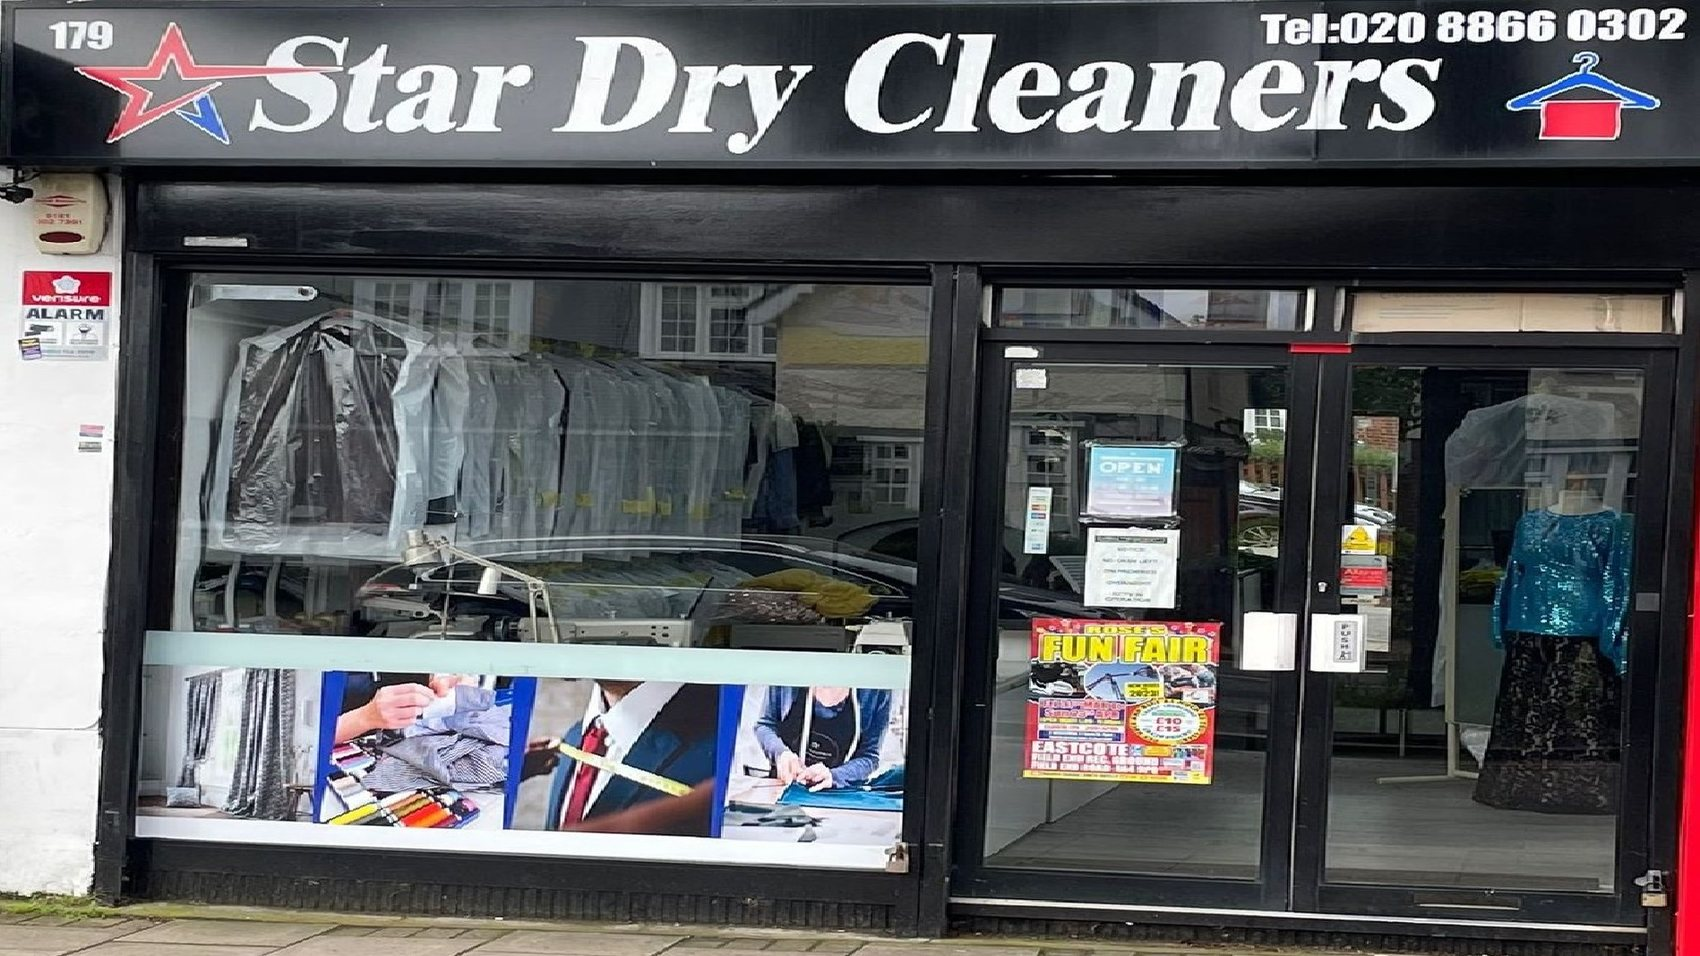
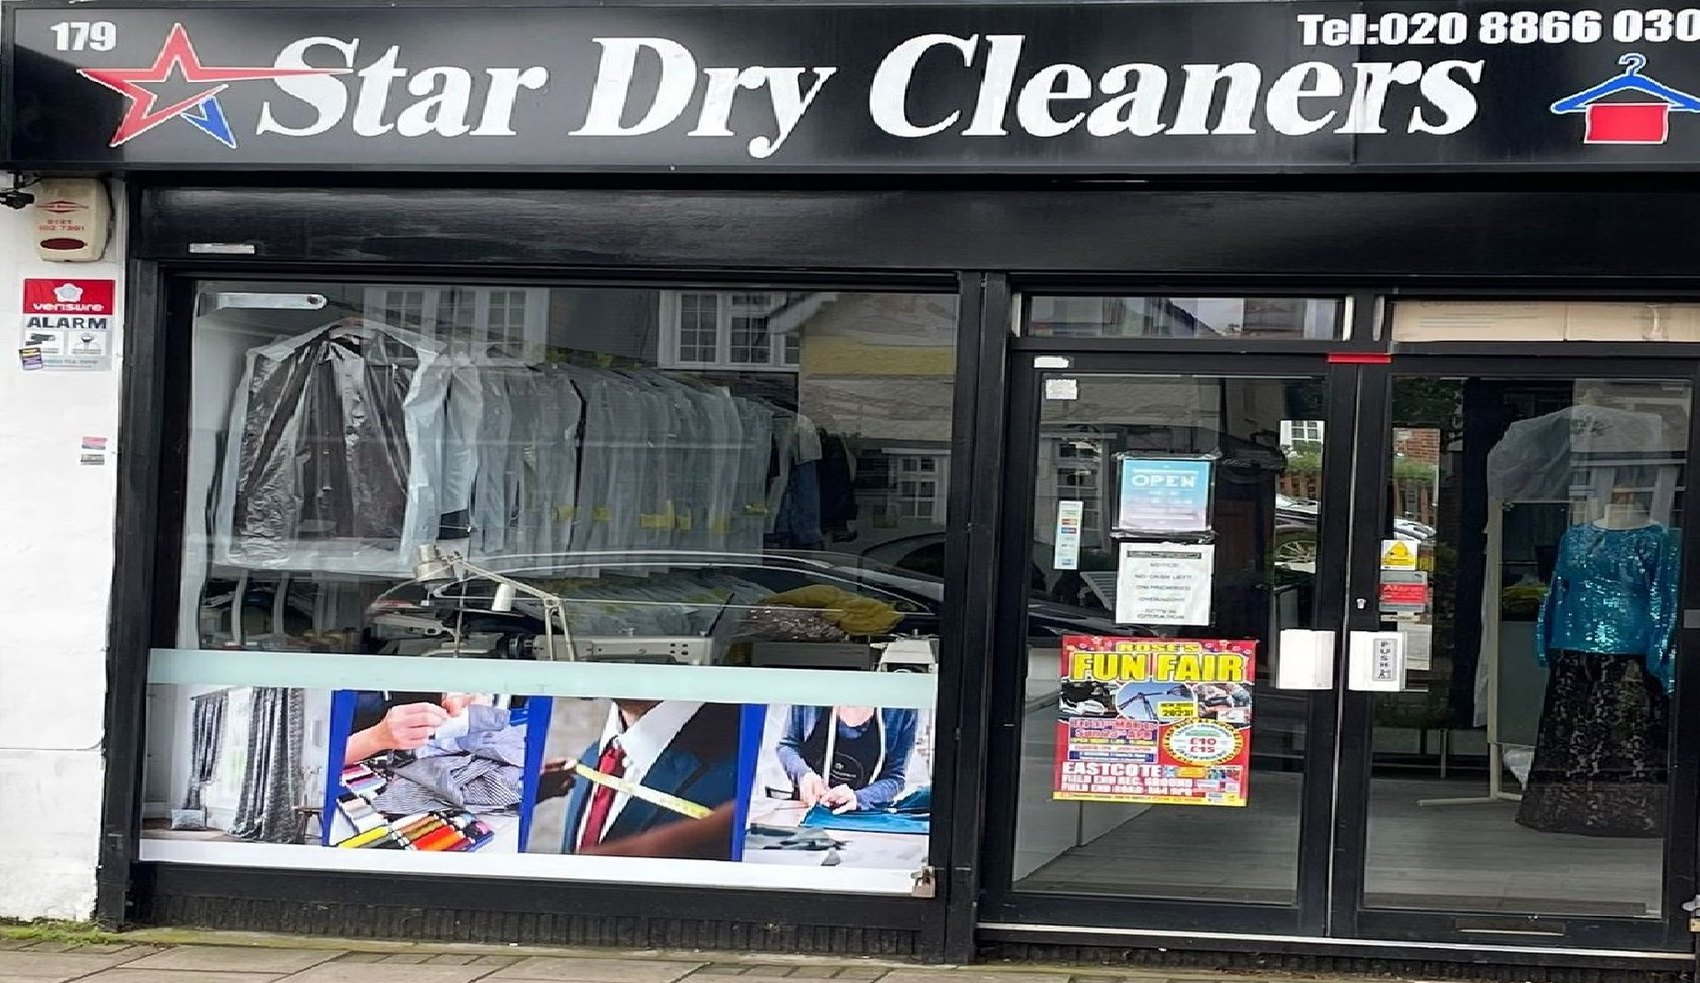
Rebuild the home hero: contained, never upscaled, headline above the fold
Alex rejected the landing screen. Measured, he was right twice over:

- The full-bleed hero rendered at viewport width from a 1700px source, so it
  was upscaled past native from ~1700px up: 1.18x at 2000px (2.36x at DPR2)
  and 1.51x at 2560 (3.02x at DPR2). Not distorted - box and source were both
  1.778 - but upscaled, which is what read as stretched.
- The H1 sat 933-1563px down the page. On a 1200px-tall viewport the headline,
  lede and both call buttons were all below the fold.

Hero is now inside the 1180px wrapper as a two-column layout, photo in a
framed figure with the address as caption. Image renders 549x318 = 0.32x
native (0.64x at DPR2) at every viewport from 1440 to 2560, and the H1 is at
189px with CTAs done by 598px.

Source re-cut to trim the neighbouring shop off the right edge (1700x983) and
the box uses the source's own ratio, so 0% of the frame is discarded.

Round 3's notes had recorded this risk as 'open, not actioned'. That was wrong.

diff --git a/assets/css/site.css b/assets/css/site.css
@@ -86,21 +86,50 @@ em{font-style:italic}
 .nav-toggle{display:none;white-space:nowrap;background:transparent;color:var(--indigo);
   border:2px solid var(--indigo);border-radius:8px;min-height:44px;padding:.5rem 1rem;font-weight:700}
 
-/* ---------- hero ---------- */
-.hero{position:relative;padding-bottom:clamp(2rem,1rem + 4vw,4rem);background:var(--paper-2)}
-/* shopfront.jpg is 1700x956 and the fascia — with "Tel:020 8866 0302" on it — sits in the
-   top band of the frame. A 16/8 box anchored at 42% cut the number off entirely. Anchor to
-   the top so the sign always survives, and use a shallower crop. */
-.hero-img img{width:100%;aspect-ratio:16/9;object-fit:cover;object-position:50% 12%}
-.hero-card{
-  background:#fff;border:1px solid var(--line);border-radius:var(--r);
-  padding:clamp(1.5rem,1rem + 2vw,2.6rem);max-width:44rem;
-  margin-top:clamp(-3.5rem,-2rem - 3vw,-1.5rem);position:relative;z-index:2;
-  box-shadow:0 24px 60px -34px rgba(36,26,94,.5);
-  border-top:4px solid var(--red);
+/* ---------- hero ----------
+   Rebuilt 2026-07-27. The previous version was a full-bleed photograph with an
+   overlapping card. Two things were wrong with it and Alex was right to reject it:
+
+   1. The source is 1700x956. Full-bleed meant it rendered at the viewport width, so
+      at 2000px it was upscaled to 1.18x native — 2.36x on a Retina screen, 3.02x at
+      2560. That softness is what read as "stretched".
+   2. It pushed the H1 to 1230px down a 1200px-tall viewport. The headline and both
+      call buttons were below the fold at every width tested, so the landing screen
+      was a giant soft photo and nothing else.
+
+   The hero is now inside the 1180px wrapper, so the image column tops out around
+   540px — roughly a third of the source's native width, sharp even at DPR 2 — and
+   the headline and CTAs are the first thing on the page. */
+.hero{
+  background:linear-gradient(180deg,var(--paper-2) 0%,var(--paper-2) 78%,#fff 100%);
+  border-bottom:1px solid var(--line);
+  padding:clamp(2.2rem,1.4rem + 4vw,4.6rem) 0;
 }
+.hero-in{
+  display:grid;gap:clamp(1.8rem,1rem + 3vw,3.6rem);
+  grid-template-columns:minmax(0,1fr) minmax(0,1.02fr);align-items:center;
+}
+.hero-copy{max-width:34rem}
 .lede{font-size:clamp(1.04rem,1rem + .5vw,1.24rem);color:var(--ink-3);max-width:34rem}
-.hero-cta{display:flex;flex-wrap:wrap;gap:.7rem;margin:1.5rem 0 0}
+.hero-cta{display:flex;flex-wrap:wrap;gap:.7rem;margin:1.6rem 0 0}
+
+.hero-fig{
+  margin:0;position:relative;max-width:620px;justify-self:end;width:100%;
+  border-top:4px solid var(--red);border-radius:var(--r);
+  background:#fff;padding:.55rem .55rem .25rem;
+  box-shadow:0 26px 60px -34px rgba(36,26,94,.55);
+}
+.hero-fig img{
+  width:100%;aspect-ratio:1700/983;object-fit:cover;
+  border-radius:calc(var(--r) - 6px);
+}
+.hero-fig figcaption{
+  font-size:.83rem;font-weight:600;color:var(--ink-3);
+  padding:.6rem .3rem .35rem;display:flex;align-items:center;gap:.45rem;
+}
+.hero-fig figcaption::before{
+  content:"";width:8px;height:8px;border-radius:50%;background:var(--red);flex:0 0 auto;
+}
 
 /* ---------- strip ---------- */
 .strip{background:var(--indigo);color:#fff}
@@ -232,7 +261,8 @@ em{font-style:italic}
 
 /* ---------- responsive ---------- */
 @media (max-width:900px){
-  .feature-in,.phero-in,.split{grid-template-columns:1fr}
+  .hero-in,.feature-in,.phero-in,.split{grid-template-columns:1fr}
+  .hero-fig{justify-self:stretch;max-width:none}
   .feature-media{order:2}
   .strip-in{grid-template-columns:1fr;gap:.6rem}
 
@@ -256,8 +286,8 @@ em{font-style:italic}
   .site-head{position:sticky;top:0}
   .head-in{position:relative;flex-wrap:wrap}
   .nav .nav-call{margin:.5rem 0 0}
-  .hero-img img{aspect-ratio:16/9;object-position:50% 50%}
-  .hero-card{margin-top:-1.4rem}
+
+
 }
 @media (max-width:420px){
   .brand img{width:142px}

diff --git a/index.html b/index.html
@@ -27,12 +27,8 @@
 <main id="main">
 
   <section class="hero">
-    <div class="hero-img">
-      <img src="assets/img/shopfront.jpg" width="1700" height="956" fetchpriority="high"
-           alt="The Star Dry Cleaners shopfront at 179 Marsh Road, Pinner, with its red and blue star sign and rails of cleaned garments in the window.">
-    </div>
-    <div class="wrap">
-      <div class="hero-card" data-reveal-hero>
+    <div class="wrap hero-in">
+      <div class="hero-copy" data-reveal-hero>
         <p class="kicker"><span class="rate"><svg class="star" viewBox="0 0 24 24" aria-hidden="true" focusable="false"><path fill="currentColor" d="M12 1.6l3.1 6.6 7 .9-5.1 4.9 1.3 7.1L12 17.7 5.7 21.1 7 14 1.9 9.1l7-.9z"/></svg> 4.6</span> from 94 Google reviews</p>
         <h1>Cleaned and pressed on Marsh&nbsp;Road.</h1>
         <p class="lede">Dry cleaning, shirts, ironing and alterations at 179 Marsh Road. The cleaning
@@ -42,6 +38,11 @@
           <a class="btn btn--ghost btn--lg" href="services.html">What we take</a>
         </p>
       </div>
+      <figure class="hero-fig" data-reveal-hero>
+        <img src="assets/img/shopfront.jpg" width="1700" height="983" fetchpriority="high"
+             alt="The Star Dry Cleaners shopfront at 179 Marsh Road, Pinner: the black fascia with the red and blue star and the shop telephone number, and rails of cleaned garments in the window.">
+        <figcaption>179 Marsh Road, Pinner HA5 5PB</figcaption>
+      </figure>
     </div>
   </section>
 

diff --git a/QA_REPORT.md b/QA_REPORT.md
@@ -232,3 +232,70 @@ build audit trail dressed as customer copy.
   is to be the destination from a Google Business Profile.
 - The alterations line icon reads as an arrow rather than a needle at 26px.
 - Five photographs across three pages is thin.
+
+---
+
+# Round 4 — hero rebuilt after Alex rejected the landing screen
+
+Alex's words: *"so stretched that not only is it distorted but it ruins the entire home page.
+This is the landing and is the most important section."* He was right, and the round-3 notes had
+already recorded the underlying risk as "open, not actioned" — that was the wrong call.
+
+## What was actually wrong
+
+Measured before the change, at five viewport sizes:
+
+| Viewport | Hero image rendered | Render scale | **H1 top** |
+|---|---|---|---|
+| 1440×800 | 1440×810 from 1700×956 | 0.85× | **933px** |
+| 1728×1000 | 1728×972 | 1.02× | **1095px** |
+| 1920×1080 | 1920×1080 | **1.13×** | **1203px** |
+| 2000×1200 | 2000×1125 | **1.18×** | **1230px** |
+| 2560×1400 | 2560×1440 | **1.51×** | **1563px** |
+
+Two separate faults:
+
+1. **Upscaling.** The source is 1700px wide and the image was full-bleed, so from about 1700px
+   viewport upward it was being enlarged past native — **1.18× at 2000px, which is 2.36× on a
+   Retina display, and 3.02× at 2560**. The aspect ratio was never wrong (1.778 box on a 1.778
+   source), so it was not literally stretched; it was *upscaled*, and that softness is what reads
+   as stretched.
+2. **Nothing but photo above the fold.** The H1 sat at 933–1563px down the page. On a 1200px-tall
+   viewport the headline, the lede and both call buttons were **all below the fold**. The landing
+   screen was a single enlarged photograph.
+
+## What replaced it
+
+The hero is now **inside the 1180px wrapper**, as a two-column layout: copy left, photograph
+right in a framed figure with a red top-rule and the address as a caption. Stacks to one column
+below 900px, copy first.
+
+| Viewport | Hero image rendered | Render scale | H1 top | CTAs finish |
+|---|---|---|---|---|
+| 1440×800 | 549×318 | **0.32×** | **189px** | 598px |
+| 1728×1000 | 549×318 | **0.32×** | **189px** | 598px |
+| 1920×1080 | 549×318 | **0.32×** | **189px** | 598px |
+| 2000×1200 | 549×318 | **0.32×** | **189px** | 598px |
+| 2560×1400 | 549×318 | **0.32×** | **189px** | 598px |
+
+**0.32× native — 0.64× even at DPR 2 — so it is never upscaled at any viewport size**, and the
+headline plus both call buttons are above the fold on an 800px-tall screen. Identical at every
+width, because the wrapper caps the column.
+
+The source was also re-cut: the neighbouring shop's red frame is trimmed off the right edge
+(1700×983 now), and the box uses `aspect-ratio:1700/983` — the source's own ratio — so
+**0% of the frame is discarded** at 390, 768 and 1440.
+
+## Re-verified after the change
+
+| Check | Result |
+|---|---|
+| Contrast (3 pages × 320/390/768/1440) | **0 violations** |
+| Upscale audit (same 12) | **0 violations** |
+| Hero frame discarded | **0%** at every width |
+| Horizontal overflow | **0px** everywhere |
+| Broken images / missing alt | 0 / 0 |
+| Console errors / HTTP ≥400 | 0 / 0 |
+| Reveal stranded after full scroll | 0 of 20 / 15 / 5 |
+| JS disabled — nav overlap with main | **0px** on all three pages |
+| Tap targets under 24px | 0 |

diff --git a/PIPELINE_STATUS.md b/PIPELINE_STATUS.md
@@ -30,6 +30,7 @@
 | 1 | 6.0 | FAIL — 5 blocking |
 | 2 | 7.2 | FAIL — 3 blocking |
 | 3 | **7.7** | **PASS** — no blocking defects |
+| 4 | — | Hero rebuilt at Alex's direction: full-bleed upscaled image replaced with a contained two-column hero |
 
 Three independent reviewers, one per round, each grading on the build's own merits.
 
@@ -39,7 +40,10 @@ fixed by measurement.
 
 ## Open items, recorded not actioned
 
-1. Desktop hero pushes the H1 below the fold at 1440×800; cap the image height.
+1. ~~Desktop hero pushes the H1 below the fold~~ — **fixed in round 4** after Alex rejected the
+   landing screen. The hero was full-bleed, so it upscaled past native from ~1700px viewport up
+   (1.18× at 2000px, 2.36× at DPR 2) and pushed the H1 to 1230px down a 1200px viewport. Now
+   contained in the 1180px wrapper: 0.32× native at every size, H1 at 189px.
 2. `counter.jpg` shows the unexplained Majestic Junction crest prominently on the services hero.
 3. No `LocalBusiness` JSON-LD and no Open Graph tags — a real miss given the whole point of this
    build is to be the working destination from their Google profile.
